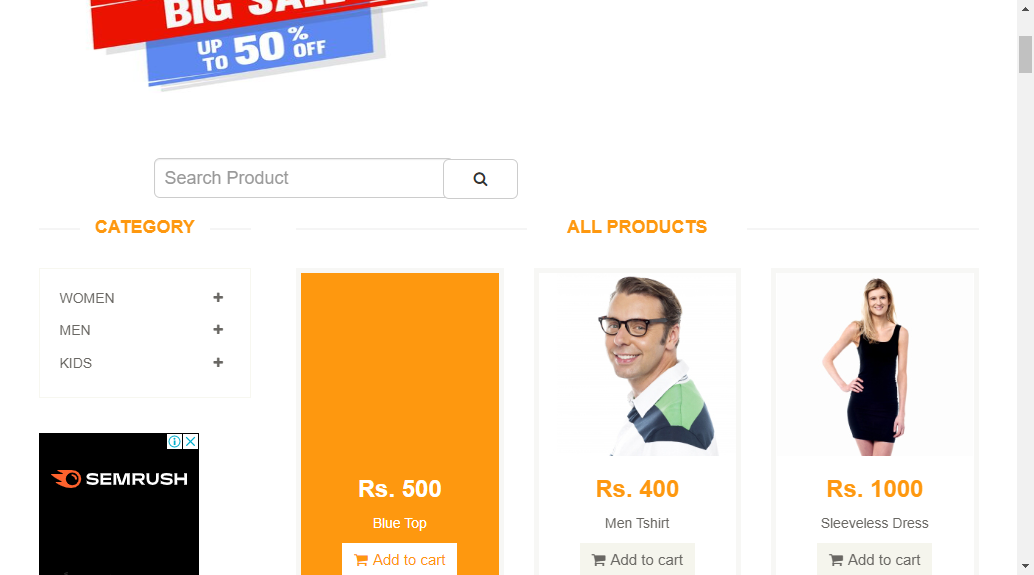
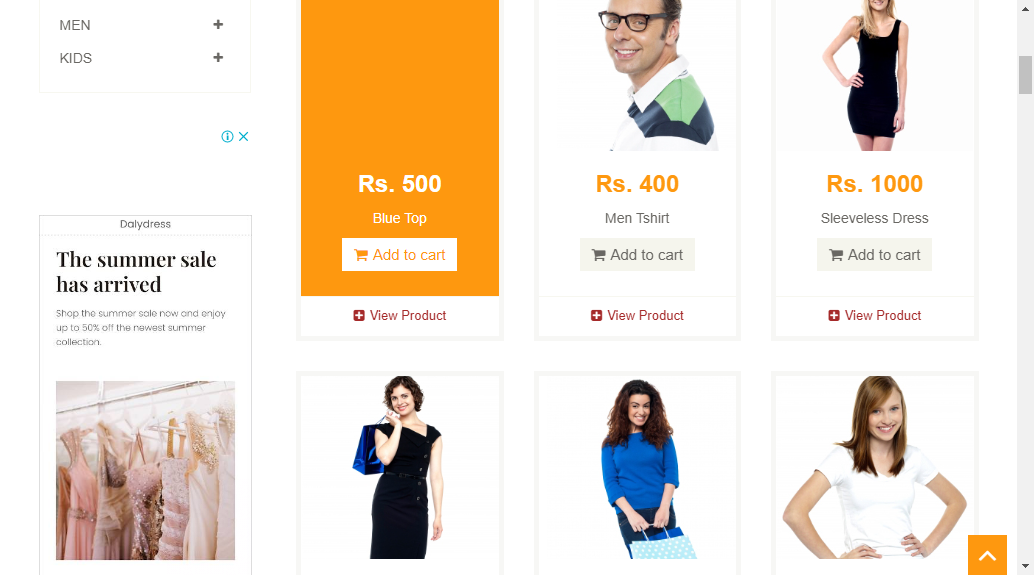
adding assignment_4

diff --git a/src/test/java/tests/AddToCartTests.java b/src/test/java/tests/AddToCartTests.java
@@ -5,32 +5,28 @@ import org.testng.Assert;
 import org.testng.annotations.Test;
 import pages.*;
 
-public class AddToCartTests extends BaseTests{
+public class AddToCartTests extends BaseTests {
 
     @Test
-    public void testAddToCartToApp(){
+    public void testAddToCartToApp() {
         NavigateBarPage navigateBarPage = new NavigateBarPage(driver);
-        LoginPage loginPage = navigateBarPage.clickLoginFromNavigatBar();
 
-        HomePage homePage = loginPage.loginToApp("Marwahashem@gmail.com", "Marwa2313505");
-        Assert.assertEquals(homePage.verifyHomePage(),"Marwa");
         ProdPage prodPage = navigateBarPage.clickProdFromNavBar();
         Assert.assertEquals(prodPage.getAllProdText(), "ALL PRODUCTS");
-        AddToCartPage addToCartPage=prodPage.hoverFirstProd();
-        addToCartPage.addedMsg();
-        prodPage.hoverSecondProd();
-        ShopingCart shopingCart=addToCartPage.verifyProd();
-        Assert.assertEquals(shopingCart.myShopingCart(),2);
-        Assert.assertEquals(shopingCart.verifyPriceOfBothProd(),2);
-        Assert.assertEquals(shopingCart.verifyQuntOfBothProd(),2);
-        Assert.assertEquals(shopingCart.verifyTotalPriceOfBothProd(),2);
+        prodPage.scrolToFirstProd();
+        prodPage.hoverToFirstProd();
+        AddToCartPage addToCartPage = prodPage.clickToFirstAddToCart();
+        addToCartPage.clickContiueShoping();
+        prodPage.hoverToSecondProd();
+        prodPage.clickToSecondAddToCart();
+        ShopingCart shopingCart = addToCartPage.verifyProd();
+        Assert.assertEquals(shopingCart.myShopingCart(), 2);
+        Assert.assertEquals(shopingCart.verifyPriceOfBothProd(), 2);
+        Assert.assertEquals(shopingCart.verifyQuntOfBothProd(), 2);
+        Assert.assertEquals(shopingCart.verifyTotalPriceOfBothProd(), 2);
 
 
     }
-
-
-
-
 
 
 }

diff --git a/src/main/java/pages/ProdPage.java b/src/main/java/pages/ProdPage.java
@@ -19,18 +19,29 @@ public class ProdPage extends BasePage{
     private By addToCart=By.xpath("(//a[@class=\"btn btn-default add-to-cart\"])[1]");
     private By addToCartSecondProd=By.xpath("(//a[@class=\"btn btn-default add-to-cart\"])[4]");
 
+
+    public void scrolToFirstProd(){
+        scrollToElement(600);
+    }
+    public void hoverToFirstProd(){
+        hoverToElement(firstProd);
+    }
+
     public ProdSearchPage searchprod (String search_prod) {
         typeOnInputField(searchBox, search_prod);
         clickElement(searchBtn);
         return new ProdSearchPage(driver);
     }
-    public AddToCartPage hoverFirstProd(){
-        hoverToElement(firstProd);
+    public AddToCartPage clickToFirstAddToCart(){
+
         clickElement(addToCart);
         return  new AddToCartPage(driver);
     }
-    public AddToCartPage hoverSecondProd(){
+    public void hoverToSecondProd(){
         hoverToElement(secondProd);
+    }
+    public AddToCartPage clickToSecondAddToCart(){
+
         clickElement(addToCartSecondProd);
         return  new AddToCartPage(driver);
     }

diff --git a/src/main/java/pages/BasePage.java b/src/main/java/pages/BasePage.java
@@ -35,13 +35,16 @@ public class BasePage {
     public String getTextOfElement (By elementLocator){ return locateElement(elementLocator).getText();}
     public int getSizeOfSearched (By elementLocator){ return listElements(elementLocator).size();}
 
-    public WebElement hoverToElement(By elementLocator){
-        wait.until(ExpectedConditions.visibilityOfElementLocated(elementLocator));
-        wait.until(ExpectedConditions.elementToBeClickable (elementLocator));
-
-        Actions actions = new Actions(driver);
-         actions.moveToElement(driver.findElement(elementLocator));
+    public void hoverToElement(By elementLocator){
+         Actions actions = new Actions(driver);
+         actions.moveToElement(locateElement(elementLocator));
          actions.perform();
-        return driver.findElement(elementLocator);
+
      }
+    public void scrollToElement(int y_pixcel){
+        Actions actions = new Actions(driver);
+        actions.scrollByAmount(0,y_pixcel);
+        actions.perform();
+
+    }
 }

diff --git a/src/main/java/pages/ShopingCart.java b/src/main/java/pages/ShopingCart.java
@@ -5,10 +5,10 @@ import org.openqa.selenium.WebDriver;
 
 public class ShopingCart extends BasePage{
 
-    private By bothProd   = By.xpath("//td[@class=\"cart_product\"]");
-    private By price   = By.xpath("//td[@class=\"cart_price\"]");
-    private By qunt  = By.xpath("//td[@class=\"cart_quantity\"]");
-    private By totalPrice  = By.xpath("//td[@class=\"cart_total\"]");
+    private By bothProd   = By.className("cart_product");
+    private By price   = By.className("cart_price");
+    private By qunt  = By.className("cart_quantity");
+    private By totalPrice  = By.className("cart_total");
 
     public ShopingCart(WebDriver driver) {
         super(driver);

diff --git a/src/test/java/tests/HomeTests.java b/src/test/java/tests/HomeTests.java
@@ -1,0 +1,19 @@
+package tests;
+
+import org.testng.Assert;
+import org.testng.annotations.Test;
+import pages.HomePage;
+import pages.LoginPage;
+import pages.NavigateBarPage;
+
+public class HomeTests extends BaseTests{
+    @Test
+    public void testHomeToApp() {
+        NavigateBarPage navigateBarPage = new NavigateBarPage(driver);
+        LoginPage loginPage = navigateBarPage.clickLoginFromNavigatBar();
+        HomePage homePage = loginPage.loginToApp("Marwahashem@gmail.com", "Marwa2313505");
+        homePage.scrolToVerifyHome();
+        Assert.assertEquals(homePage.verifyHomePage(), "FEATURES ITEMS");
+    }
+
+}

diff --git a/src/test/java/tests/ProdTests.java b/src/test/java/tests/ProdTests.java
@@ -10,9 +10,7 @@ public class ProdTests extends BaseTests{
     public void testProdToApp()
     {
         NavigateBarPage navigateBarPage= new NavigateBarPage (driver);
-        LoginPage loginPage = navigateBarPage.clickLoginFromNavigatBar();
-        HomePage homePage = loginPage.loginToApp("Marwahashem@gmail.com", "Marwa2313505");
-        Assert.assertEquals(homePage.verifyHomePage(),"Marwa");
+
         ProdPage prodPage = navigateBarPage.clickProdFromNavBar();
         Assert.assertEquals(prodPage.getAllProdText(), "ALL PRODUCTS");
         ProdSearchPage prodSearchPage = prodPage.searchprod("Jeans");

diff --git a/src/main/java/pages/HomePage.java b/src/main/java/pages/HomePage.java
@@ -4,11 +4,15 @@ import org.openqa.selenium.By;
 import org.openqa.selenium.WebDriver;
 
 public class HomePage extends BasePage{
-    private By loginName = By.xpath("//b[contains(text(),'Marwa')]");
+    private By verifyHome = By.xpath("//div[@class=\"features_items\"]//h2[@class=\"title text-center\"]");
 
     public HomePage(WebDriver driver) { super(driver); }
+
+    public void scrolToVerifyHome(){
+        scrollToElement(600);
+    }
     public String verifyHomePage()
-    {  return getTextOfElement(loginName);}
+    {  return getTextOfElement(verifyHome);}
 
 
 }

diff --git a/src/main/java/pages/LoginPage.java b/src/main/java/pages/LoginPage.java
@@ -5,8 +5,8 @@ import org.openqa.selenium.WebDriver;
 
 public class LoginPage extends BasePage{
 
-    private By emailField= By.xpath("//div[@class=\"login-form\"]//input[@name=\"email\"]");
-    private By pswField= By.xpath("//div[@class=\"login-form\"]//input[@name=\"password\"]");
+    private By emailField= By.name("email");
+    private By pswField= By.name("password");
     private By loginBtn= By.xpath("//div[@class=\"login-form\"]//button[@class=\"btn btn-default\"]");
 
     public LoginPage(WebDriver driver) {

diff --git a/src/main/java/pages/AddToCartPage.java b/src/main/java/pages/AddToCartPage.java
@@ -13,7 +13,7 @@ public class AddToCartPage extends BasePage {
     public AddToCartPage(WebDriver driver) {
         super(driver);
     }
-    public ProdPage addedMsg() {
+    public ProdPage clickContiueShoping() {
       //getTextOfElement(alertMsg);
       clickElement(continueBtn);
      return new ProdPage(driver);
